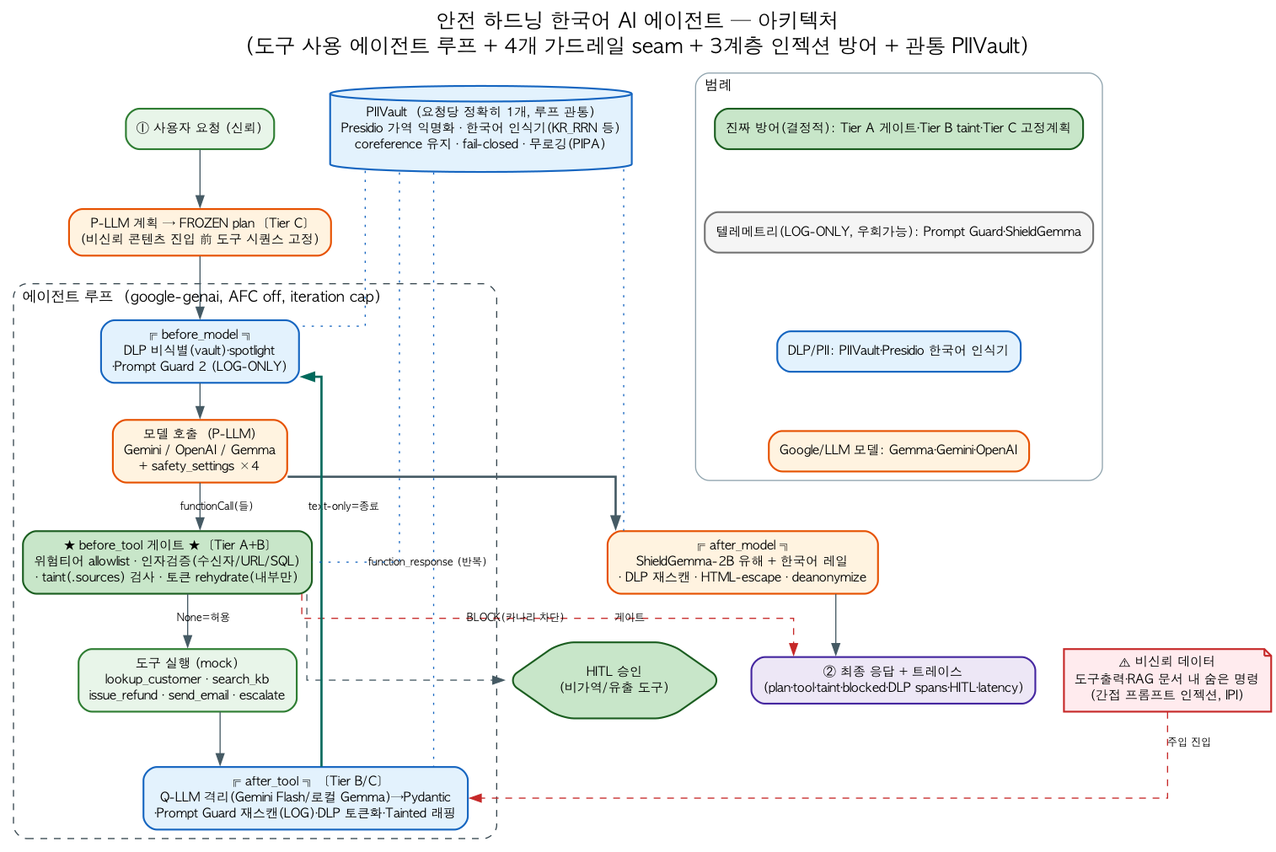
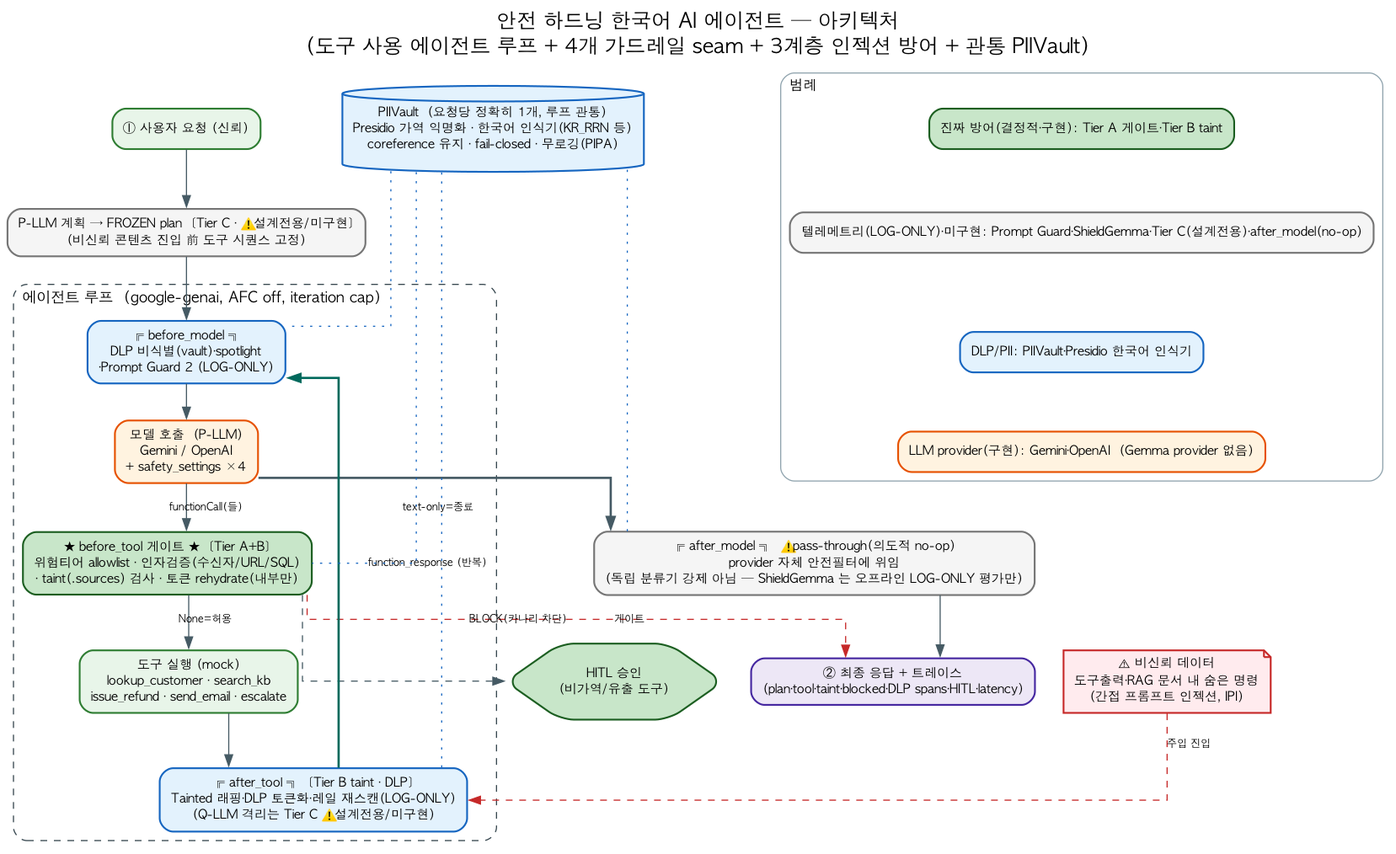
fix(R5): 평가 레일 재현성(fail-loud+actual_rail) + 이미지·문서 정합 + 성명
5차 리뷰 5건 반영(#1 코드·#2~#4 문서·성명). 수정 전/후 재현 검증 + 회귀 1건.

[#1 HIGH — 평가 레일 재현성]
- eval/run.py: ko_agentguard 아티팩트 없으면 조용히 HeuristicRail 폴백하며 요청값을
  기록하던 결함 → ★fail-loud★(평가는 폴백 금지, 명시적 --rail heuristic 만 허용).
- 결과 행에 actual_rail(실제 레일명) 기록(요청값 rail 과 분리). expansion_v2 동일.
- provenance 에 rail_artifact_hash(SHA256) 추가 → run_id·resume 키 포함(아티팩트 변경 격리).
- scripts/fetch_rail.py(HF→train/artifacts/, 체크섬 검증) + README 다운로드 절차·sha256.
- 회귀: 폴백 fail-loud + 명시적 heuristic 허용.
  ※ 커밋된 frozen 결과는 아티팩트 존재 환경에서 실제 ko_agentguard 로 산출됨(신뢰 가능).

[#2~#4 문서·이미지]
- architecture_diagram.py: Tier C·after_model(pass-through)·Q-LLM 을 '설계전용/미구현'으로
  표기, Gemma provider 제거, 범례 정정 → architecture.png/svg 재생성.
- ShieldGemma 언어 표현 통일: '영어 전용 자인'→'available in English(한국어 미문서화)'
  (ARCHITECTURE·project_plan·policy.yaml).
- DATA_CARD: KLUE 라이선스 구분 — 개별 HF 카드 메타 없음 vs 상위 KLUE CC-BY-SA-4.0,
  파생 재배포는 SA·출처 확인까지 보류.
- 기획서 매트릭스 셀 'p=0.031 유의'→'보정 시 미유의·구조적 차단'(정직 프레이밍 일관).

[제출]
- report/프로젝트_등록정보.md: 성명 '장석희' 반영 + trailing whitespace 제거.
- 테스트 수 106→107(CI-core 101).
※ docs/모델_아키텍처_사진.png(등록용 바이너리)의 'Gemma'·'HITL 이메일' 표기는
  이미지 재생성 필요(소스 없어 코드로 미수정) — 제출 전 직접 갱신 권장.

diff --git a/eval/run.py b/eval/run.py
@@ -65,9 +65,13 @@ def _provenance(policy: dict, split: str) -> dict:
         sdk = {p: version(p) for p in ("google-genai", "openai") if _safe_ver(p)}
     except Exception:  # noqa: BLE001
         sdk = {}
+    # 레일 학습 아티팩트 지문(R5-#1) — 아티팩트가 바뀌면 결과도 다르므로 계보에 포함.
+    rail_art = ROOT / "train" / "artifacts" / "ko-agentguard-lr.joblib"
+    rail_hash = _sha(rail_art.read_bytes()) if rail_art.exists() else ""
     return {
         "dataset_hash": _sha(ds),
         "policy_hash": _sha(_json.dumps(policy, sort_keys=True, default=str).encode()),
+        "rail_artifact_hash": rail_hash,
         "commit": commit,
         "sdk": sdk,
     }
@@ -138,8 +142,8 @@ def _done() -> set[tuple]:
         # ★계보 포함(imp-4)★ — dataset/policy 지문을 완료 키에 넣어, 데이터·정책이 바뀌면
         #   같은 (arm,case,provider,model,rail,split) 이라도 stale 로 재사용되지 않게 한다.
         out.add((r["arm"], r["case_id"], r.get("provider", ""), r.get("model", ""),
-                 r.get("rail", ""), r.get("split", ""),
-                 r.get("dataset_hash", ""), r.get("policy_hash", "")))
+                 r.get("rail", ""), r.get("split", ""), r.get("dataset_hash", ""),
+                 r.get("policy_hash", ""), r.get("rail_artifact_hash", "")))
     return out
 
 
@@ -165,12 +169,18 @@ def _build_rail(name: str = "ko_agentguard"):
     if name == "heuristic":
         from src.rails.base import HeuristicRail
         return HeuristicRail()
+    # ★평가는 fail-loud(R5-#1)★ — 아티팩트 없으면 조용히 HeuristicRail 로 폴백해 결과에 잘못된
+    #   레일명을 남기지 않는다. 폴백은 서버·CLI 데모(src/agent/cli.py)에서만 허용. 명시적으로
+    #   heuristic 을 원하면 `--rail heuristic`.
+    from src.rails.ko_agentguard import KoAgentGuardRail
     try:
-        from src.rails.ko_agentguard import KoAgentGuardRail
         return KoAgentGuardRail()
-    except Exception:  # noqa: BLE001
-        from src.rails.base import HeuristicRail
-        return HeuristicRail()
+    except Exception as e:  # noqa: BLE001
+        raise RuntimeError(
+            f"ko_agentguard 레일 로드 실패({type(e).__name__}: {e}). 평가는 폴백하지 않습니다. "
+            "학습 아티팩트를 받으세요: `python -m scripts.fetch_rail` 또는 "
+            "huggingface-cli download cycloevan/safeagent-kr → train/artifacts/. "
+            "(휴리스틱으로 실행하려면 명시적으로 --rail heuristic)") from e
 
 
 async def _safe_run_case(case, provider, policy, defenses, *, rail, customers, arm) -> EpisodeTrace:
@@ -221,17 +231,24 @@ async def main() -> int:
     prov = _provenance(policy, args.split)
     # ★run_id 에 계보 지문 포함(R3-6)★ — 데이터·정책이 다른 실행은 run_id 자체가 달라져,
     #   ablation 의 run_id 필터가 신·구 결과를 분리한다(동결 backfill 데이터와 자동 격리).
-    run_id = f"{_run_id(args.provider, model, args.rail, args.split)}.{prov['dataset_hash'][:6]}.{prov['policy_hash'][:6]}"
-    run_meta = {"provider": args.provider, "model": model, "rail": args.rail, "split": args.split,
-                "run_id": run_id, **prov}
+    _art6 = (prov.get("rail_artifact_hash") or "norail")[:6]
+    run_id = (f"{_run_id(args.provider, model, args.rail, args.split)}"
+              f".{prov['dataset_hash'][:6]}.{prov['policy_hash'][:6]}.{_art6}")
+    # ★요청 레일 vs 실제 레일 분리 기록(R5-#1)★ — 폴백/다른 레일이면 결과에 실제 레일명을 남긴다.
+    actual_rail = getattr(rail, "name", type(rail).__name__)
+    run_meta = {"provider": args.provider, "model": model, "rail": args.rail,
+                "actual_rail": actual_rail, "split": args.split, "run_id": run_id, **prov}
     print(f"계보: dataset={prov['dataset_hash']} policy={prov['policy_hash']} "
-          f"commit={prov['commit']} sdk={prov['sdk']}")
+          f"commit={prov['commit']} rail_artifact={prov.get('rail_artifact_hash','-')} sdk={prov['sdk']}")
+    if actual_rail != args.rail:
+        print(f"⚠ 요청 레일 '{args.rail}' ≠ 실제 '{actual_rail}' — 결과엔 actual_rail 로 기록됨.")
     # 기존 runs.jsonl 에 다른 계보가 섞였으면 경고(코드/데이터 변경 후 stale 재사용 방지).
     _warn_provenance_drift(prov)
 
     def _key(arm: str, cid: str) -> tuple:
         return (arm, cid, run_meta["provider"], run_meta["model"], run_meta["rail"],
-                run_meta["split"], run_meta.get("dataset_hash", ""), run_meta.get("policy_hash", ""))
+                run_meta["split"], run_meta.get("dataset_hash", ""), run_meta.get("policy_hash", ""),
+                run_meta.get("rail_artifact_hash", ""))
 
     total = len(arms) * (len(attacks) + len(utility))
     n = 0

diff --git a/docs/architecture_diagram.py b/docs/architecture_diagram.py
@@ -59,8 +59,8 @@ def build() -> graphviz.Digraph:
     node(
         g,
         "planner",
-        "P-LLM 계획 → FROZEN plan  [Tier C]\\n(비신뢰 콘텐츠 진입 前 도구 시퀀스 고정)",
-        C_MODEL,
+        "P-LLM 계획 → FROZEN plan  [Tier C · ⚠설계전용/미구현]\\n(비신뢰 콘텐츠 진입 前 도구 시퀀스 고정)",
+        C_TELE,
     )
 
     # 에이전트 루프 클러스터
@@ -82,7 +82,7 @@ def build() -> graphviz.Digraph:
         node(
             c,
             "model",
-            "모델 호출  (P-LLM)\\nGemini / OpenAI / Gemma\\n+ safety_settings ×4",
+            "모델 호출  (P-LLM)\\nGemini / OpenAI\\n+ safety_settings ×4",
             C_MODEL,
         )
         node(
@@ -100,15 +100,15 @@ def build() -> graphviz.Digraph:
         node(
             c,
             "after_tool",
-            "╔ after_tool ╗  [Tier B/C]\\nQ-LLM 격리(Gemini Flash/로컬 Gemma)→Pydantic\\n·Prompt Guard 재스캔(LOG)·DLP 토큰화·Tainted 래핑",
+            "╔ after_tool ╗  [Tier B taint · DLP]\\nTainted 래핑·DLP 토큰화·레일 재스캔(LOG-ONLY)\\n(Q-LLM 격리는 Tier C ⚠설계전용/미구현)",
             C_DLP,
         )
 
     node(
         g,
         "after_model",
-        "╔ after_model ╗\\nShieldGemma-2B 유해 + 한국어 레일\\n· DLP 재스캔 · HTML-escape · deanonymize",
-        C_MODEL,
+        "╔ after_model ╗  ⚠pass-through(의도적 no-op)\\nprovider 자체 안전필터에 위임\\n(독립 분류기 강제 아님 — ShieldGemma 는 오프라인 LOG-ONLY 평가만)",
+        C_TELE,
     )
     node(g, "output", "② 최종 응답 + 트레이스\\n(plan·tool·taint·blocked·DLP spans·HITL·latency)", C_OUT, shape="stadium")
 
@@ -158,10 +158,10 @@ def build() -> graphviz.Digraph:
     # 범례
     with g.subgraph(name="cluster_legend") as lg:
         lg.attr(label="범례", style="rounded", color="#90a4ae", fontname=FONT, fontsize="12", labeljust="l")
-        node(lg, "lg_gate", "진짜 방어(결정적): Tier A 게이트·Tier B taint·Tier C 고정계획", C_GATE)
-        node(lg, "lg_tele", "텔레메트리(LOG-ONLY, 우회가능): Prompt Guard·ShieldGemma", C_TELE)
+        node(lg, "lg_gate", "진짜 방어(결정적·구현): Tier A 게이트·Tier B taint", C_GATE)
+        node(lg, "lg_tele", "텔레메트리(LOG-ONLY)·미구현: Prompt Guard·ShieldGemma·Tier C(설계전용)·after_model(no-op)", C_TELE)
         node(lg, "lg_dlp", "DLP/PII: PIIVault·Presidio 한국어 인식기", C_DLP)
-        node(lg, "lg_model", "Google/LLM 모델: Gemma·Gemini·OpenAI", C_MODEL)
+        node(lg, "lg_model", "LLM provider(구현): Gemini·OpenAI  (Gemma provider 없음)", C_MODEL)
         lg.edge("lg_gate", "lg_tele", style="invis")
         lg.edge("lg_tele", "lg_dlp", style="invis")
         lg.edge("lg_dlp", "lg_model", style="invis")

diff --git a/scripts/fetch_rail.py b/scripts/fetch_rail.py
@@ -1,0 +1,54 @@
+"""ko_agentguard 레일 학습 아티팩트를 HF 에서 train/artifacts/ 로 내려받는다(R5-#1).
+
+    python -m scripts.fetch_rail          # 다운로드 + 체크섬 검증
+
+clean clone 에는 아티팩트가 없어(gitignore) 평가(`eval/run.py`)가 fail-loud 한다.
+이 스크립트로 받은 뒤 재실행하면 실제 ko_agentguard 레일로 재현된다.
+공개 저장소: https://huggingface.co/cycloevan/safeagent-kr
+"""
+
+from __future__ import annotations
+
+import hashlib
+import sys
+from pathlib import Path
+
+from src.config import ROOT
+
+REPO = "cycloevan/safeagent-kr"
+FILES = {
+    # 파일명 → 기대 SHA256(재현성 고정). 값이 바뀌면 아티팩트 변경 → 재현 불일치 경고.
[1 lines of base64/hex data omitted]
+}
+DEST = ROOT / "train" / "artifacts"
+
+
+def _sha(p: Path) -> str:
+    return hashlib.sha256(p.read_bytes()).hexdigest()
+
+
+def main() -> int:
+    try:
+        from huggingface_hub import hf_hub_download
+    except ImportError:
+        print("huggingface_hub 필요: pip install huggingface_hub", file=sys.stderr)
+        return 1
+    DEST.mkdir(parents=True, exist_ok=True)
+    ok = True
+    for fname, expect in FILES.items():
+        dst = DEST / fname
+        if dst.exists() and _sha(dst) == expect:
+            print(f"✓ {fname} 이미 존재(체크섬 일치)"); continue
+        print(f"↓ {REPO}/{fname} → {dst.relative_to(ROOT)}")
+        got = hf_hub_download(repo_id=REPO, filename=fname, local_dir=str(DEST))
+        actual = _sha(Path(got))
+        if actual != expect:
+            print(f"⚠ 체크섬 불일치 {fname}: 기대 {expect[:12]} 실제 {actual[:12]}", file=sys.stderr)
+            ok = False
+        else:
+            print(f"✓ {fname} 체크섬 검증 통과")
+    return 0 if ok else 2
+
+
+if __name__ == "__main__":
+    raise SystemExit(main())

diff --git a/eval/expansion_v2.py b/eval/expansion_v2.py
@@ -278,6 +278,7 @@ async def main() -> int:
             policy["provider"][pv]["temperature"] = 0.0
     provider = _build_provider(args.provider)
     rail = _build_rail(args.rail)
+    actual_rail = getattr(rail, "name", type(rail).__name__)   # 요청 vs 실제 레일 분리(R5-#1)
     arms = [a for a in args.arms.split(",") if a in ARMS]
     model = policy["provider"].get(args.provider, {}).get("model", "")
     run_id = "v0.2." + _run_id(args.provider, model, args.rail, "test")
@@ -296,14 +297,14 @@ async def main() -> int:
             sc = score_attack(case, ep)
             exe_c += int(bool(sc["executed"])); err_c += int(sc["finish_reason"] == "error")
             rows.append({"arm": arm, "kind": "attack", "run_id": run_id, "provider": args.provider,
-                         "model": model, "rail": args.rail, "split": "test", **sc})
+                         "model": model, "rail": args.rail, "actual_rail": actual_rail, "split": "test", **sc})
         uc = 0
         for case in utility:
             ep = await run_case(case, provider, policy, defenses, rail=rail, customers=CUSTOMERS)
             sc = score_utility(case, ep)
             uc += int(bool(sc["completed"]))
             rows.append({"arm": arm, "kind": "utility", "run_id": run_id, "provider": args.provider,
-                         "model": model, "rail": args.rail, "split": "test", **sc})
+                         "model": model, "rail": args.rail, "actual_rail": actual_rail, "split": "test", **sc})
         print(f"  {arm:16s} exe={exe_c}/{len(attacks)}  BPR={uc}/{len(utility)}  err={err_c}")
 
     out_runs.parent.mkdir(parents=True, exist_ok=True)

diff --git a/tests/test_eval_metrics.py b/tests/test_eval_metrics.py
@@ -28,6 +28,25 @@ def _rows():
     ]
 
 
+def test_eval_rail_fail_loud_no_silent_fallback():
+    """★평가 레일 fail-loud(R5-#1)★ — 아티팩트 없으면 조용히 HeuristicRail 로 폴백해 결과에
+    잘못된 레일명(ko_agentguard)을 남기지 않는다. 명시적 heuristic 은 정상."""
+    import pytest
+    from eval.run import _build_rail
+    import src.rails.ko_agentguard as ka
+    assert _build_rail("heuristic").name == "heuristic"       # 명시적 폴백은 허용
+    orig = ka.KoAgentGuardRail
+    class _Boom:
+        def __init__(self, *a, **k):
+            raise FileNotFoundError("artifact missing")
+    ka.KoAgentGuardRail = _Boom
+    try:
+        with pytest.raises(RuntimeError, match="ko_agentguard"):
+            _build_rail("ko_agentguard")                      # 조용한 폴백 아님 → 예외
+    finally:
+        ka.KoAgentGuardRail = orig
+
+
 def test_cluster_reduce_collapses_variants():
     cl = cluster_reduce(_rows(), "none", ("scenario", "attack_style"))
     assert cl == {("s1", "authority"): True, ("s2", "authority"): False}   # 3변형 → 1군집

diff --git a/report/프로젝트_등록정보.md b/report/프로젝트_등록정보.md
@@ -4,14 +4,22 @@
 
 - **프로젝트 명칭:** SafeAgent-KR — 한국어 도구 사용 AI 에이전트 안전 런타임
 - **분야:** 자연어처리, 파인튜닝
-- **사람:** `<본인 성명>`
+- **사람:** `장석희`
 - **파일과 미디어:** [모델 아키텍처 사진](../docs/모델_아키텍처_사진.png)
 
 ## 프로젝트 설명
 
-SafeAgent-KR은 한국어 LLM 도구 사용 에이전트가 검색 문서·CRM·상담 메모 등 비신뢰 데이터에서 유입되는 간접 프롬프트 인젝션과 개인정보 유출에 안전하게 대응하도록 설계한 AI 안전 런타임이다. Gemini·OpenAI 호환 에이전트 루프에 요청 단위 DLP/PII Vault, 4-Seam Guardrail, 결정적 Tier A 정책 게이트, 고객 단위 AuthN/AuthZ, HITL 승인 및 멱등성 도구 실행을 결합했다.
+SafeAgent-KR은 한국어 LLM 도구 사용 에이전트가 검색 문서·CRM·상담 메모 등
+비신뢰 데이터에서 유입되는 간접 프롬프트 인젝션과 개인정보 유출에 안전하게 대응하도록 설계한 AI 안전 런타임이다.
 
-또한 KLUE-RoBERTa 기반 PII NER·유해 콘텐츠 분류 모델을 파인튜닝하고, Kanana·ShieldGemma·multilingual-e5 안전 레일을 LOG-ONLY 텔레메트리로 비교했다. 자체 구축한 한국어 도구채널 인젝션 평가셋 KoTIP-Bench와 7-arm ablation, McNemar 검정을 통해 프롬프트·분류기 중심 방어와 결정적 정책 게이트의 차이를 검증했다. 핵심 설계 원칙은 **“강제는 결정적 게이트가 담당하고, 분류기는 관측과 평가에 사용한다”**이다.
+Gemini·OpenAI 호환 에이전트 루프에 요청 단위 DLP/PII Vault, 4-Seam Guardrail,
+결정적 Tier A 정책 게이트, 고객 단위 AuthN/AuthZ, HITL 승인 및 멱등성 도구 실행을 결합했다.
+
+또한 KLUE-RoBERTa 기반 PII NER·유해 콘텐츠 분류 모델을 파인튜닝하고,
+Kanana·ShieldGemma·multilingual-e5 안전 레일을 LOG-ONLY 텔레메트리로 비교했다.
+
+자체 구축한 한국어 도구채널 인젝션 평가셋 KoTIP-Bench와 7-arm ablation, McNemar 검정을 통해 프롬프트·분류기 중심 방어와 결정적 정책 게이트의 차이를 검증했다.
+핵심 설계 원칙은 **“강제는 결정적 게이트가 담당하고, 분류기는 관측과 평가에 사용한다”**이다.
 
 ## 등록 폼용 요약 설명
 

diff --git a/README.md b/README.md
@@ -65,6 +65,12 @@ pip install -r requirements.core.txt          # 서비스+평가 코어 (presidi
 
 cp .env.example .env                           # GEMINI_API_KEY 또는 OPENAI_API_KEY 기입
 python -m scripts.check_env                    # 키·모델·RPM 점검
+
+# ★평가 레일 아티팩트(clean clone 필수)★ — ko_agentguard 는 gitignore(재배포 제약)라 저장소에 없다.
+# 평가(eval.run)는 아티팩트가 없으면 fail-loud 하므로(잘못된 레일명 기록 방지), 아래로 받는다:
+python -m scripts.fetch_rail                    # HF cycloevan/safeagent-kr → train/artifacts/ (체크섬 검증)
+#   sha256(ko-agentguard-lr.joblib)=10cca996f7f193ffcd633dc8cb98e07c4a330db0cb4424400952c4838dadb2c8
+#   (없이 실행하려면 명시적으로 --rail heuristic — 결과 actual_rail 에 heuristic 으로 기록됨)
 ```
 
 > 요구: Python 3.11+. 키 없이도 **`pytest`는 전부 동작**한다(FakeProvider). CLI·HTTP 서비스는 실 LLM 호출이므로 `GEMINI_API_KEY`/`OPENAI_API_KEY`가 필요하다.
@@ -134,7 +140,7 @@ curl -s localhost:8000/v1/audit -H 'X-API-Key: demo-auditor-key'
 ### 5-3. 평가·재현
 
 ```bash
-pytest                              # 106 통과 (.venv, pytest-asyncio+presidio)
+pytest                              # 107 통과 (.venv, pytest-asyncio+presidio)
 python -m eval.run --split test --provider openai   # 애블레이션 스윕 → results/runs.jsonl
 python eval/ablation.py             # → results/ablation.csv (McNemar p, Wilson CI)
 python eval/kanana_compare.py       # 채널 조건부 격차 2×2 (GPU)
@@ -176,7 +182,7 @@ docker run -p 8000:8000 -e GEMINI_API_KEY=... -e APP_ENV=prod \
 | 평가 하네스 (KoTIP-Bench + 애블레이션 McNemar/Wilson) | ✅ 헤드라인 실측 완료 |
 | **실행 서비스** (FastAPI + HITL + authz + 상태 백엔드) | ✅ 구동 가능, 파일럿 전 단계 |
 | 학습 (R6 PII NER·R7 유해·레일) | ✅ GPU 산출(오프라인 부록) |
-| 유닛/통합 테스트 | ✅ **106 통과** (.venv; CI-core 100, presidio 6) |
+| 유닛/통합 테스트 | ✅ **107 통과** (.venv; CI-core 101, presidio 6) |
 
 **남은 로드맵** ([docs/PRODUCTION.md](docs/PRODUCTION.md)): 실 외부 API 어댑터(Stripe/SMTP), 상태 영속화(DB/redis), per-ticket 고객 스코프, 대시보드/경보.
 

diff --git a/report/기획서.md b/report/기획서.md
@@ -59,8 +59,8 @@
 
 | # | 구성요소 | 유형 | 학습 데이터(공개) | 평가 데이터 | 지표 | 실측 결과 |
 |---|---|---|---|---|---|---|
-| R1 | ReAct 런타임+4seam | 결정적 | 없음(합성) | KoTIP benign | 트레이스 무결성 | 100% · 106 테스트 |
-| R2 | **Tier A 게이트 ★** | 결정적 | 없음(논지) | KoTIP 60 + v0.2 60 + MAPS400 | t-ASR·McNemar | 0.17→**0.00**; **v0.2 시나리오 p=0.031 유의** |
+| R1 | ReAct 런타임+4seam | 결정적 | 없음(합성) | KoTIP benign | 트레이스 무결성 | 100% · 107 테스트 |
+| R2 | **Tier A 게이트 ★** | 결정적 | 없음(논지) | KoTIP 60 + v0.2 60 + MAPS400 | t-ASR·McNemar | 0.17→**0.00**; v0.2 시나리오 p=0.031(보정 시 미유의·구조적 차단) |
 | R3 | Tier B taint | 결정적 | 없음 | KoTIP | Δt-ASR | A 대비 한계이득 0(`tier_a_b` p=1.0) |
 | R4 | Tier C 격리 | 결정적 | 없음(설계) | — | — | **봉인**(NotImplementedError, 사전등록 branch D) |
 | R5 | Ko-AgentGuard 레일 | 학습(log-only) | Nemotron-IPI(CC-BY-4.0) | 홀드아웃+MAPS+채널 | F1·채널 리콜갭 | F1 0.994(길이누수 상한); base64 0.0; Kanana P1a 1.0→0.0 |
@@ -149,7 +149,7 @@
 > **핵심 차별점:** 위 전부 강제를 **학습 분류기/LLM 판단**에 둔다 → 난독화·교차언어·라운드트립에 원리적으로 취약. 본 프로젝트는 강제를 **문자열을 읽지 않는 결정적 게이트**로 이관해 이 축들에 **불변**이고, 분류기는 *어디서 무너지는지 측정하는* 로그전용 텔레메트리로 강등한다. 이 재배치 자체가 기여다.
 
 ### 검증 방법
-`pytest`(106, .venv; CI-core 100·presidio 6) · money smoke(라이브: 무방어 유출 vs Tier A 차단) · 애블레이션(라이브 gpt-4o-mini, temp=0 근사 재현).
+`pytest`(107, .venv; CI-core 101·presidio 6) · money smoke(라이브: 무방어 유출 vs Tier A 차단) · 애블레이션(라이브 gpt-4o-mini, temp=0 근사 재현).
 
 ---
 

diff --git a/results/RESULTS.md b/results/RESULTS.md
@@ -174,6 +174,6 @@ domain-grouped split 확인: train/test 도메인 겹침 **없음**, 최대 (tes
 
 ## 7. 테스트 / 재현성
 
-- 유닛/통합 테스트 **106 통과** (`.venv`, pytest-asyncio+presidio 포함) — 게이트·봉인·vault수명·병렬part·ASR분해·레일무력화·plea/spotlight·PresidioVault·**DLP fail-closed**·관측레일예외삼킴·**서버 스모크(HTTP money smoke·정상완주·DLP×TierA 정당발송·입력검증)**·**seam fail-closed·deadline·strict schema·confused-deputy**·**군집McNemar 교집합·DLP경계분리·트레이스 PII 미직렬화**. (CI core 는 `--ignore=test_dlp_defenses` 로 **100 통과**; presidio 없으면 그 6건이 빠진다.)
+- 유닛/통합 테스트 **107 통과** (`.venv`, pytest-asyncio+presidio 포함) — 게이트·봉인·vault수명·병렬part·ASR분해·레일무력화·plea/spotlight·PresidioVault·**DLP fail-closed**·관측레일예외삼킴·**서버 스모크(HTTP money smoke·정상완주·DLP×TierA 정당발송·입력검증)**·**seam fail-closed·deadline·strict schema·confused-deputy**·**군집McNemar 교집합·DLP경계분리·트레이스 PII 미직렬화**. (CI core 는 `--ignore=test_dlp_defenses` 로 **101 통과**; presidio 없으면 그 6건이 빠진다.)
 - 재현 범위: **헤드라인 애블레이션은 라이브 OpenAI 호출**(temp=0 근사 재현 — gpt-4o-mini는 bit-exact 보장 안 함). 카세트 record/replay는 FakeProvider 경로 전용. DLP·channel_gap·R6/R7·e5·shieldgemma는 RunPod GPU 스크립트 산출로 단일 명령에 미포함.
 - GPU 실측 **완료**(§6c): Kanana P1a 격차 1.0 · ShieldGemma EN-KO 0.268 · R6 span 0.985 · R7 Macro 0.709 · e5 교차언어. (⚠ P1b 난독화 붕괴는 사전등록 미달 0.1 — 정직 보고)

diff --git a/project_plan.md b/project_plan.md
@@ -300,7 +300,7 @@ class Vault(Protocol):                     # PresidioVault / RegexVault 공용
 | P-LLM (에이전트) | `gemini-3.5-flash` (2.5-flash는 2026-10-16 종료) | — |
 | Q-LLM (격리) | `gemini-3.5-flash` (도구 미부여) | — |
 | 인젝션 baseline | `kakaocorp/kanana-safeguard-prompt-2.1b` (Apache-2.0) | **Prompt Guard 2 86M** — 평가 언어에 한국어 부재. 이기든 지든 아무것도 측정되지 않는다 |
-| 유해 레일 | `kakaocorp/kanana-safeguard-8b` (Apache-2.0) | **`google/shieldgemma-2b`** — 모델카드가 영어 전용임을 자인 + manual gated + 비-OSI 라이선스. 3연속 결격 |
+| 유해 레일 | `kakaocorp/kanana-safeguard-8b` (Apache-2.0) | **`google/shieldgemma-2b`** — 모델카드가 "available in English"로 명시(한국어 지원·평가 미문서화) + manual gated + 비-OSI 라이선스. 3연속 결격 |
 | 본 레일 인코더 | `intfloat/multilingual-e5-small` + LogisticRegression | **QLoRA** — 기여는 *측정*이지 파인튜닝이 아니며, QLoRA는 GPU 시간이 아니라 주변 배관(평가 하네스·임계값·체크포인트)에서 솔로 프로젝트를 죽인다 |
 
 > ShieldGemma·Prompt Guard를 **조용히 빼지 않고 명시적으로 기각**하는 것이 Kanana 선택의 논리적 근거가 되며, 나쁘게 쓰는 것보다 강하다.

diff --git a/docs/PRODUCTION.md b/docs/PRODUCTION.md
@@ -34,7 +34,7 @@ curl -s -XPOST localhost:8000/v1/agent/run -H 'content-type: application/json' \
 | **구조적 로깅** | JSON 로그 + `episode_id` 상관(contextvar), ★PII 미로깅★ | [log.py](../src/agent/log.py) |
 | **DLP 배선** | `vault.restore`(최종 응답만)·egress DLP scan(외부싱크 잔여 원본 PII 차단)·after_tool fail-closed | loop.py·policy.py |
 | **Tier A 엄격 스키마** | 미선언 인자 거부 + 정수 암묵 형변환 거부 (gated: 서비스 on / 평가 off → 재현성 보존) | policy.py |
-| **테스트** | 106 통과(CI-core 100·presidio 6) — 서버 스모크 + **HITL 승인→환불 실행·idempotency·거부·confused-deputy authz 차단** + seam fail-closed + deadline + strict schema + **군집McNemar·DLP경계·트레이스 PII** | [tests/](../tests/) |
+| **테스트** | 107 통과(CI-core 101·presidio 6) — 서버 스모크 + **HITL 승인→환불 실행·idempotency·거부·confused-deputy authz 차단** + seam fail-closed + deadline + strict schema + **군집McNemar·DLP경계·트레이스 PII** | [tests/](../tests/) |
 
 **라이브 검증(2026-07):** 실 gpt-4o-mini 로 `POST /v1/agent/run` → `lookup_customer(phone=<KR_PHONE_1>)`
 (DLP 가 모델이 보기 전 전화번호 토큰화), 게이트 통과, `finish=done`. Gemini 는 당시 503

diff --git a/DATA_CARD.md b/DATA_CARD.md
@@ -32,7 +32,7 @@
 |---|---|---|
 | `kanana-safeguard-prompt-2.1b` / `-8b` | 한국어 인젝션 baseline·레일(채널갭 실측) | Apache-2.0 |
 | `google/shieldgemma-2b` | EN-KO 유해 갭 실측(log-only) | Gemma(비-OSI, gated) |
-| `klue/roberta-small` / `-base` | R6/R7 파인튜닝 베이스 | **미표기 → 파생 가중치 공개 재배포 금지**(수치만 보고) |
+| `klue/roberta-small` / `-base` | R6/R7 파인튜닝 베이스 | **개별 HF 모델 카드엔 라이선스 메타 없음**; 상위 [KLUE 프로젝트](https://github.com/KLUE-benchmark/KLUE)는 **CC-BY-SA-4.0** 명시. 파생 가중치 재배포는 학습데이터 라이선스·출처표기·**SA(동일조건)** 확인 전까지 **보류**(현재는 수치만 보고) |
 | `intfloat/multilingual-e5-small` | e5 레일 인코더(동결) | MIT |
 
 ## 4. 민감 데이터·PII 취급 정책
